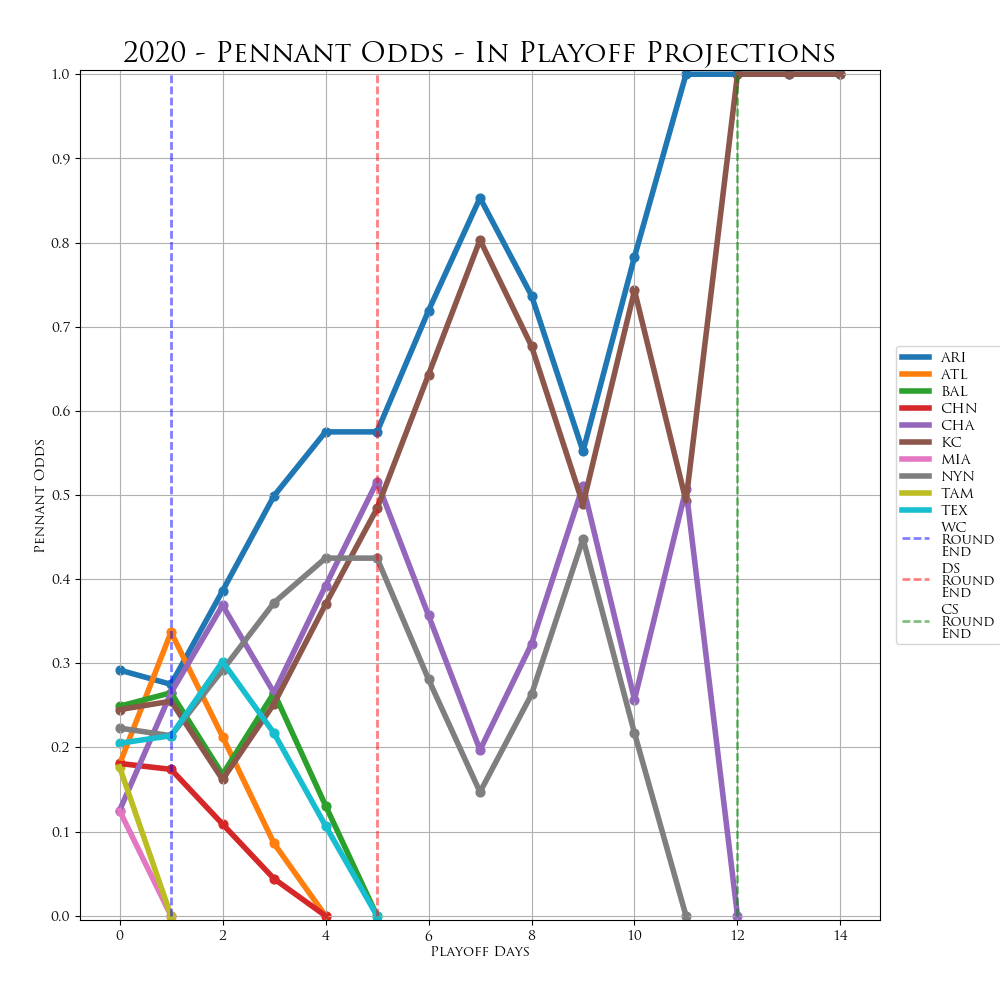
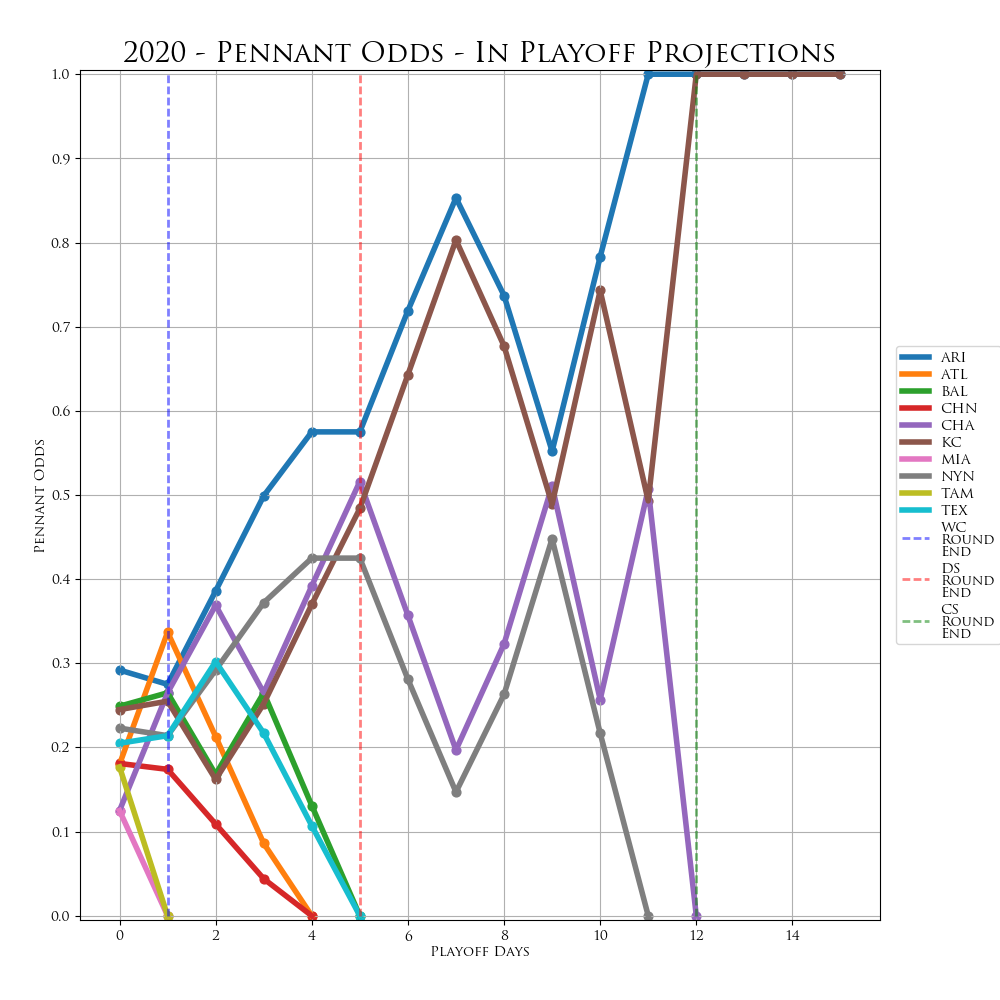
playoff NSBL update (Dec 01, 2020)

Changed region(s): [[0.124, 0.062, 0.744, 0.93]]

diff --git a/Tables/in_playoff_bracket.html b/Tables/in_playoff_bracket.html
@@ -255,7 +255,7 @@ c+"</h1><div>"+("function"===typeof e.message?e.message(b,h,e):e.message)+"</div
 </script>
 <script>
 		$(document).ready(function() {
-			$("#table").DataTable({"scroller":true,"dom":"Bfrtip","sScrollX":"100%","scrollY":"70vh","buttons":["copy","csv","json","print"],"paging":true,"bPaginate":false,"bLengthChange":false,"deferRender":true,"data":[["ALCS","Chicago White Sox","Kansas City Royals","3","4","0.0%","","","","",""],["ALCS","Kansas City Royals","Chicago White Sox","4","3","100.0%","","","","","100.0%"],["ALDS1","Kansas City Royals","Texas Rangers","3","1","100.0%","","100.0%","","",""],["ALDS1","Texas Rangers","Kansas City Royals","1","3","0.0%","","","","",""],["ALDS2","Baltimore Orioles","Chicago White Sox","1","3","0.0%","","","","",""],["ALDS2","Chicago White Sox","Baltimore Orioles","3","1","100.0%","","100.0%","","",""],["ALWC","Chicago White Sox","Tampa Bay Rays","1","0","100.0%","","","","",""],["ALWC","Tampa Bay Rays","Chicago White Sox","0","1","0.0%","","","","",""],["NLCS","Arizona Diamondbacks","New York Mets","4","2","100.0%","","","","100.0%",""],["NLCS","New York Mets","Arizona Diamondbacks","2","4","0.0%","","","","",""],["NLDS1","Chicago Cubs","New York Mets","0","3","0.0%","","","","",""],["NLDS1","New York Mets","Chicago Cubs","3","0","100.0%","100.0%","","","",""],["NLDS2","Arizona Diamondbacks","Atlanta Braves","3","0","100.0%","100.0%","","","",""],["NLDS2","Atlanta Braves","Arizona Diamondbacks","0","3","0.0%","","","","",""],["NLWC","Atlanta Braves","Miami Marlins","1","0","100.0%","","","","",""],["NLWC","Miami Marlins","Atlanta Braves","0","1","0.0%","","","","",""],["WS","Arizona Diamondbacks","Kansas City Royals","2","0","82.5%","","26.0%","25.5%","18.7%","12.2%"],["WS","Kansas City Royals","Arizona Diamondbacks","0","2","17.5%","","","","5.8%","11.7%"]],"sScrollXInner":"100%","columns":[{"title":"Series ID"},{"title":"Team Name"},{"title":"Opponent Name"},{"title":"Series Wins"},{"title":"Series Losses"},{"title":"Advance Probability"},{"title":"Win in 3"},{"title":"Win in 4"},{"title":"Win in 5"},{"title":"Win in 6"},{"title":"Win in 7"}],"iDisplayLength":-1});
+			$("#table").DataTable({"scroller":true,"dom":"Bfrtip","sScrollX":"100%","scrollY":"70vh","buttons":["copy","csv","json","print"],"paging":true,"bPaginate":false,"bLengthChange":false,"deferRender":true,"data":[["ALCS","Chicago White Sox","Kansas City Royals","3","4","0.0%","","","","",""],["ALCS","Kansas City Royals","Chicago White Sox","4","3","100.0%","","","","","100.0%"],["ALDS1","Kansas City Royals","Texas Rangers","3","1","100.0%","","100.0%","","",""],["ALDS1","Texas Rangers","Kansas City Royals","1","3","0.0%","","","","",""],["ALDS2","Baltimore Orioles","Chicago White Sox","1","3","0.0%","","","","",""],["ALDS2","Chicago White Sox","Baltimore Orioles","3","1","100.0%","","100.0%","","",""],["ALWC","Chicago White Sox","Tampa Bay Rays","1","0","100.0%","","","","",""],["ALWC","Tampa Bay Rays","Chicago White Sox","0","1","0.0%","","","","",""],["NLCS","Arizona Diamondbacks","New York Mets","4","2","100.0%","","","","100.0%",""],["NLCS","New York Mets","Arizona Diamondbacks","2","4","0.0%","","","","",""],["NLDS1","Chicago Cubs","New York Mets","0","3","0.0%","","","","",""],["NLDS1","New York Mets","Chicago Cubs","3","0","100.0%","100.0%","","","",""],["NLDS2","Arizona Diamondbacks","Atlanta Braves","3","0","100.0%","100.0%","","","",""],["NLDS2","Atlanta Braves","Arizona Diamondbacks","0","3","0.0%","","","","",""],["NLWC","Atlanta Braves","Miami Marlins","1","0","100.0%","","","","",""],["NLWC","Miami Marlins","Atlanta Braves","0","1","0.0%","","","","",""],["WS","Arizona Diamondbacks","Kansas City Royals","3","0","94.2%","","51.0%","25.0%","12.2%","6.0%"],["WS","Kansas City Royals","Arizona Diamondbacks","0","3","5.8%","","","","","5.8%"]],"sScrollXInner":"100%","columns":[{"title":"Series ID"},{"title":"Team Name"},{"title":"Opponent Name"},{"title":"Series Wins"},{"title":"Series Losses"},{"title":"Advance Probability"},{"title":"Win in 3"},{"title":"Win in 4"},{"title":"Win in 5"},{"title":"Win in 6"},{"title":"Win in 7"}],"iDisplayLength":-1});
 		});
 	</script>
 <style>

diff --git a/Tables/in_playoff_probabilities.html b/Tables/in_playoff_probabilities.html
@@ -227,7 +227,7 @@ c+"</h1><div>"+("function"===typeof e.message?e.message(b,h,e):e.message)+"</div
 </script>
 <script>
 		$(document).ready(function() {
-			$("#table").DataTable({"dom":"Bfrtip","sScrollX":"100%","scrollY":"70vh","buttons":["copy","csv","json","print"],"paging":true,"lengthMenu":[[-1,10,25,50],["All",10,25,50]],"data":[["Arizona Diamondbacks","100.0%","0.0%","","100.0%","100.0%","100.0%","82.5%"],["Atlanta Braves","0.0%","100.0%","100.0%","100.0%","0.0%","0.0%","0.0%"],["Baltimore Orioles","100.0%","0.0%","","100.0%","0.0%","0.0%","0.0%"],["Chicago Cubs","100.0%","0.0%","","100.0%","0.0%","0.0%","0.0%"],["Chicago White Sox","0.0%","100.0%","100.0%","100.0%","100.0%","0.0%","0.0%"],["Kansas City Royals","100.0%","0.0%","","100.0%","100.0%","100.0%","17.5%"],["Miami Marlins","0.0%","100.0%","0.0%","0.0%","0.0%","0.0%","0.0%"],["New York Mets","100.0%","0.0%","","100.0%","100.0%","0.0%","0.0%"],["Tampa Bay Rays","0.0%","100.0%","0.0%","0.0%","0.0%","0.0%","0.0%"],["Texas Rangers","100.0%","0.0%","","100.0%","0.0%","0.0%","0.0%"]],"sScrollXInner":"100%","columns":[{"title":"Team Name"},{"title":"Win Div"},{"title":"Make Wild Card"},{"title":"Win Wild Card"},{"title":"Make LDS"},{"title":"Make LCS"},{"title":"Make WS"},{"title":"Win WS"}],"iDisplayLength":-1});
+			$("#table").DataTable({"dom":"Bfrtip","sScrollX":"100%","scrollY":"70vh","buttons":["copy","csv","json","print"],"paging":true,"lengthMenu":[[-1,10,25,50],["All",10,25,50]],"data":[["Arizona Diamondbacks","100.0%","0.0%","","100.0%","100.0%","100.0%","94.2%"],["Atlanta Braves","0.0%","100.0%","100.0%","100.0%","0.0%","0.0%","0.0%"],["Baltimore Orioles","100.0%","0.0%","","100.0%","0.0%","0.0%","0.0%"],["Chicago Cubs","100.0%","0.0%","","100.0%","0.0%","0.0%","0.0%"],["Chicago White Sox","0.0%","100.0%","100.0%","100.0%","100.0%","0.0%","0.0%"],["Kansas City Royals","100.0%","0.0%","","100.0%","100.0%","100.0%","5.8%"],["Miami Marlins","0.0%","100.0%","0.0%","0.0%","0.0%","0.0%","0.0%"],["New York Mets","100.0%","0.0%","","100.0%","100.0%","0.0%","0.0%"],["Tampa Bay Rays","0.0%","100.0%","0.0%","0.0%","0.0%","0.0%","0.0%"],["Texas Rangers","100.0%","0.0%","","100.0%","0.0%","0.0%","0.0%"]],"sScrollXInner":"100%","columns":[{"title":"Team Name"},{"title":"Win Div"},{"title":"Make Wild Card"},{"title":"Win Wild Card"},{"title":"Make LDS"},{"title":"Make LCS"},{"title":"Make WS"},{"title":"Win WS"}],"iDisplayLength":-1});
 		});
 	</script>
 <style>
